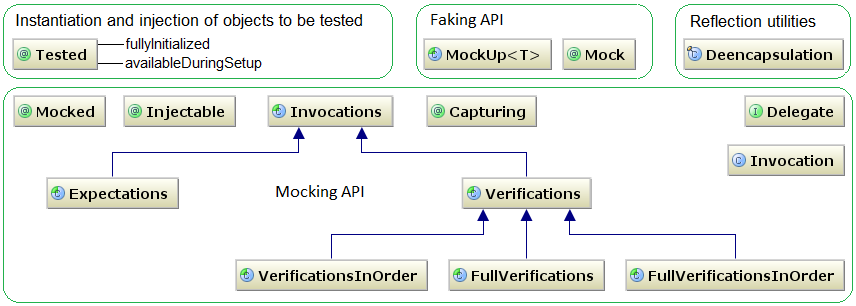
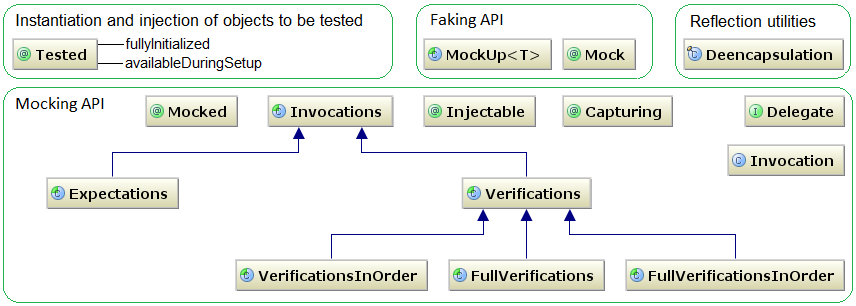
Adjusted API image.

Changed region(s): [[0.0, 0.2941, 0.3037, 0.4412], [0.486, 0.2941, 0.7897, 0.4412], [0.3037, 0.5882, 0.4252, 0.6471]]

diff --git a/api1x/overview.html b/api1x/overview.html
@@ -14,7 +14,7 @@
    <map name="figure1">
       <area coords=" 14, 12, 362, 28" href="../tutorial/EnterpriseApplications.html" target="tested">
       <area coords=" 13, 38,  98, 71" href="mockit/Tested.html">
-      <area coords="276,186, 364,201" href="../tutorial/Mocking.html" target="mocking">
+      <area coords=" 16, 98, 104,113" href="../tutorial/Mocking.html" target="mocking">
       <area coords=" 45,176, 179,209" href="mockit/Expectations.html">
       <area coords="460,176, 592,209" href="mockit/Verifications.html">
       <area coords="234,258, 428,291" href="mockit/VerificationsInOrder.html">
@@ -22,12 +22,12 @@
       <area coords="624,258, 845,291" href="mockit/FullVerificationsInOrder.html">
       <area coords="743, 95, 845,128" href="mockit/Delegate.html">
       <area coords="726,143, 845,176" href="mockit/Invocation.html">
-      <area coords=" 13, 95, 107,128" href="mockit/Mocked.html">
-      <area coords="123, 95, 237,128" href="mockit/Injectable.html">
-      <area coords="427, 95, 845,538" href="mockit/Capturing.html">
+      <area coords="146, 95, 239,128" href="mockit/Mocked.html">
+      <area coords="424, 95, 537,128" href="mockit/Injectable.html">
+      <area coords="562, 95, 674,128" href="mockit/Capturing.html">
       <area coords="428, 12, 503, 28" href="../tutorial/Faking.html" target="faking">
-      <area coords="422, 37, 552, 71" href="mockit/MockUp.html">
-      <area coords="561, 37, 636, 71" href="mockit/Mock.html">
+      <area coords="424, 37, 553, 71" href="mockit/MockUp.html">
+      <area coords="562, 37, 636, 71" href="mockit/Mock.html">
       <area coords="684, 39, 845, 71" href="mockit/Deencapsulation.html">
    </map>
    <img src="../toolkit.png" style="border: none;" usemap="overview.html#figure1">
